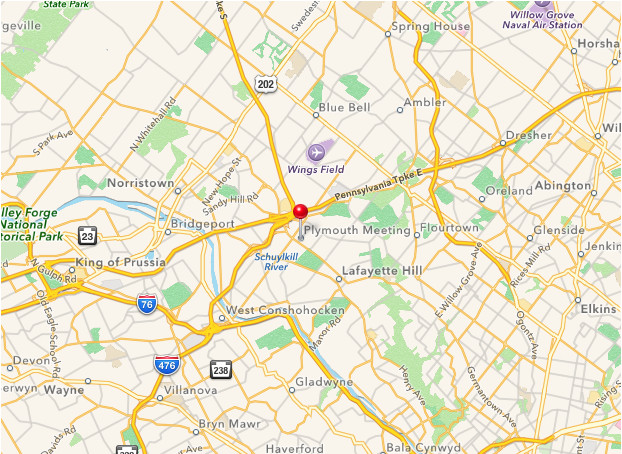
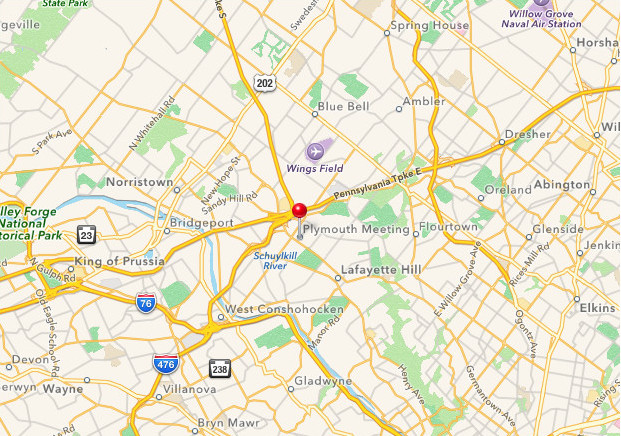
contact page map image
contact page map resized to reflect exact travel radius, changes to
reflect new image name, drum lessons keywords added to meta tag

diff --git a/index.html b/index.html
@@ -3,8 +3,8 @@
 	<head profile="http:fd//gmpg.org/xfn/11">
 		<title>Sounds Abound Music &gt; Lessons. Live Entertainment. Music Composition.</title>
 		<meta http-equiv="content-type" content="text/html; charset=UTF-8" />
-		<meta name="keywords" content="sounds abound music, soundsaboundmusic, private music lessons Montgomery County, guitar lessons 
-		      Montgomery County, music composition, live music, in home music instruction, mobile music lessons, live music services, 
+		<meta name="keywords" content="sounds abound music, soundsaboundmusic, private music lessons Montgomery County, guitar lessons Montgomery County, 
+		      drum lessons Montgomery County, music composition, live music, in home music instruction, mobile music lessons, live music services, 
 		      Shady Groove, Shady Groove Quartet, Matthew Kresge, Matt Kresge, PA, Montgomery County, Plymouth Meeting, Valley Forge, 
 		      Conshohoken, Jenkintown, Norristown, Eagleville, Dresher, Lafayette Hill, Ambler, Oreland, Glenside, Blue Bell, 
 		      Elkins Park, Fort Washington, Flourtown, West Chester">

diff --git a/contact.html b/contact.html
@@ -9,11 +9,11 @@
 		 <script>
 			 function popupwindow() {
 			 		
-				 var width = '622';
-				 var height = '408';
+				 var width = '705';
+				 var height = '440';
 				 var left = (screen.width/2)-(width/2);
 				 var top = (screen.height/2)-(height/2);	
-				 var url= 'images/plymouth_meeting_travel_radius_full_size.jpg';	 
+				 var url= 'images/in-home_lesson_travel_radius.jpg';	 
 				 window.open(url, '', 'toolbar=no, status=no, titlebar=yes, location=no, menubar=no, scrollbars=no, resizable=no, width='+width+', height='+height+', top='+top+', left='+left);
  
 			 }
